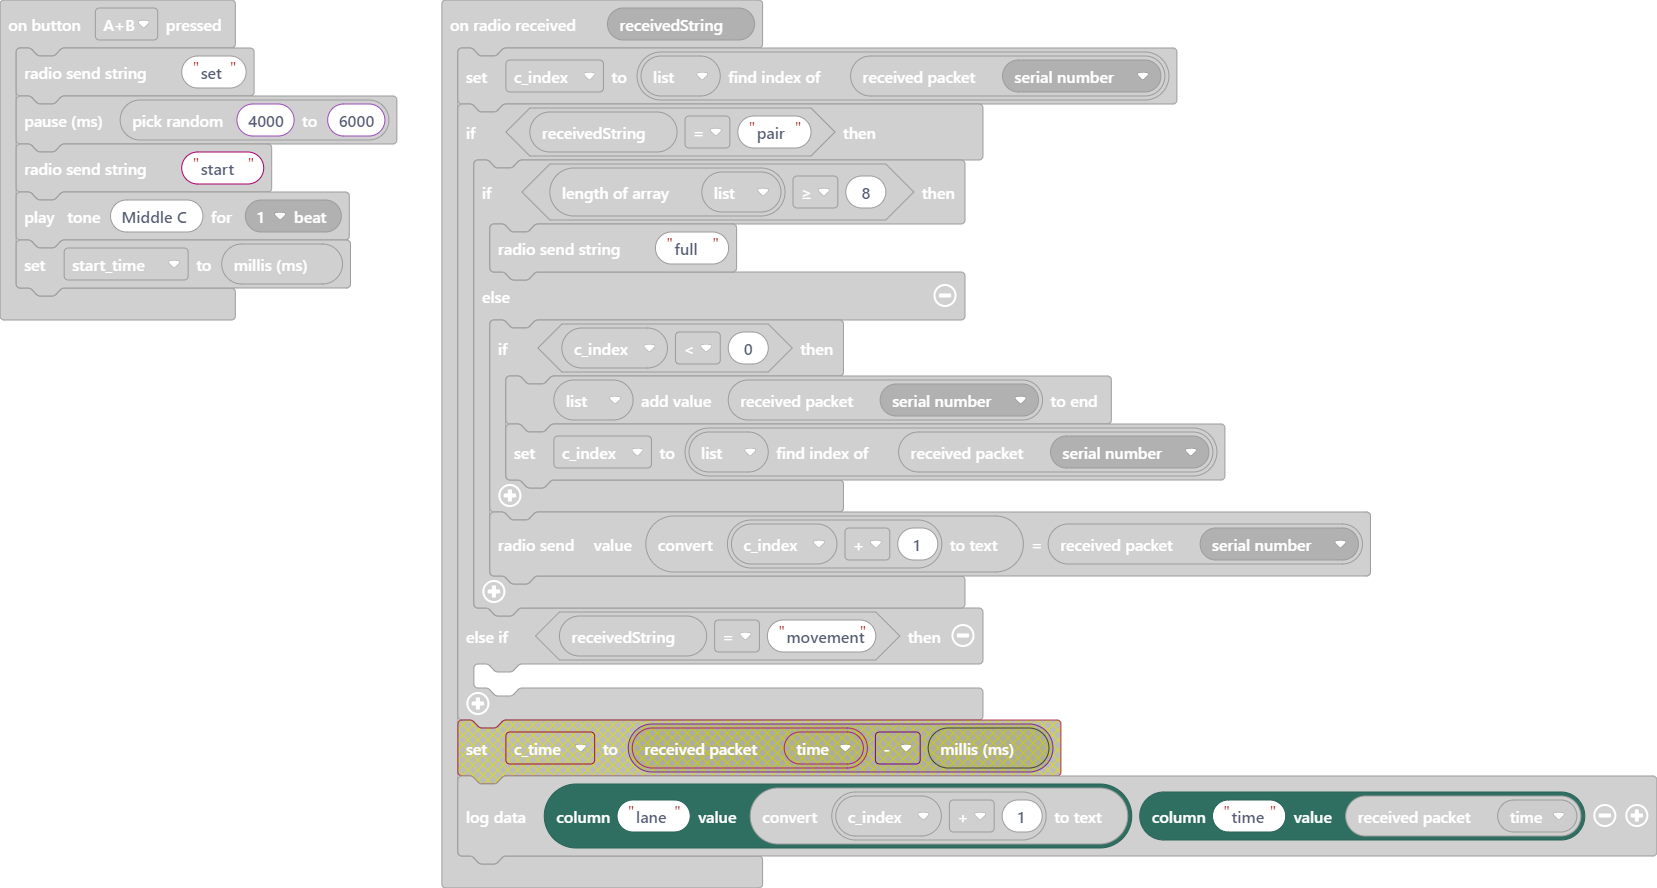
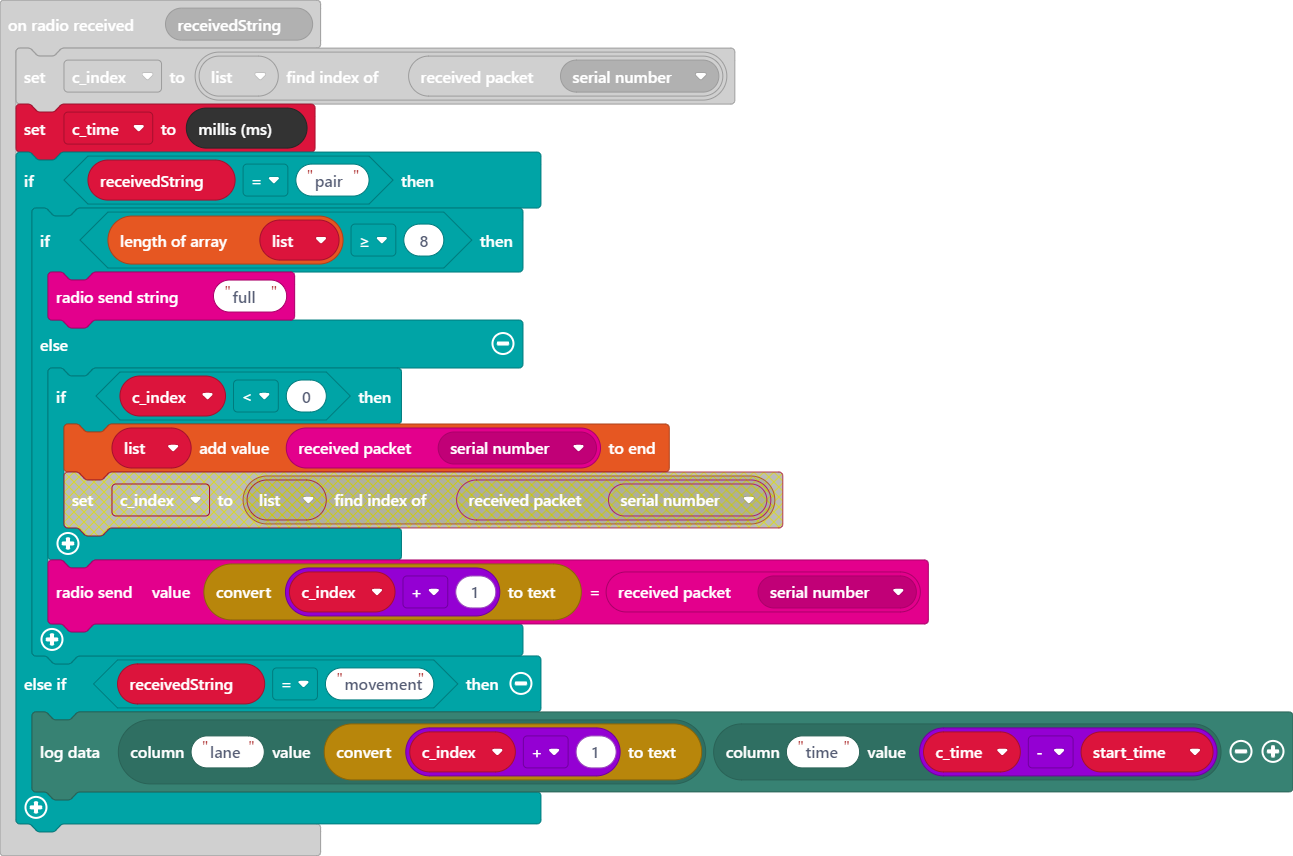
Update main.blocks, main.ts

diff --git a/main.ts b/main.ts
@@ -7,20 +7,21 @@ input.onButtonPressed(Button.AB, function () {
 })
 radio.onReceivedString(function (receivedString) {
     c_index = list.indexOf(radio.receivedPacket(RadioPacketProperty.SerialNumber))
+    c_time = control.millis()
     if (receivedString == "pair") {
         if (list.length >= 8) {
             radio.sendString("full")
         } else {
             if (c_index < 0) {
                 list.push(radio.receivedPacket(RadioPacketProperty.SerialNumber))
-                c_index = list.indexOf(radio.receivedPacket(RadioPacketProperty.SerialNumber))
             }
             radio.sendValue(convertToText(c_index + 1), radio.receivedPacket(RadioPacketProperty.SerialNumber))
         }
     } else if (receivedString == "movement") {
-        datalogger.log(datalogger.createCV("lane", convertToText(c_index + 1)), datalogger.createCV("time", radio.receivedPacket(RadioPacketProperty.Time)))
+        datalogger.log(datalogger.createCV("lane", convertToText(c_index + 1)), datalogger.createCV("time", c_time - start_time))
     }
 })
+let c_time = 0
 let c_index = 0
 let start_time = 0
 let list: number[] = []
